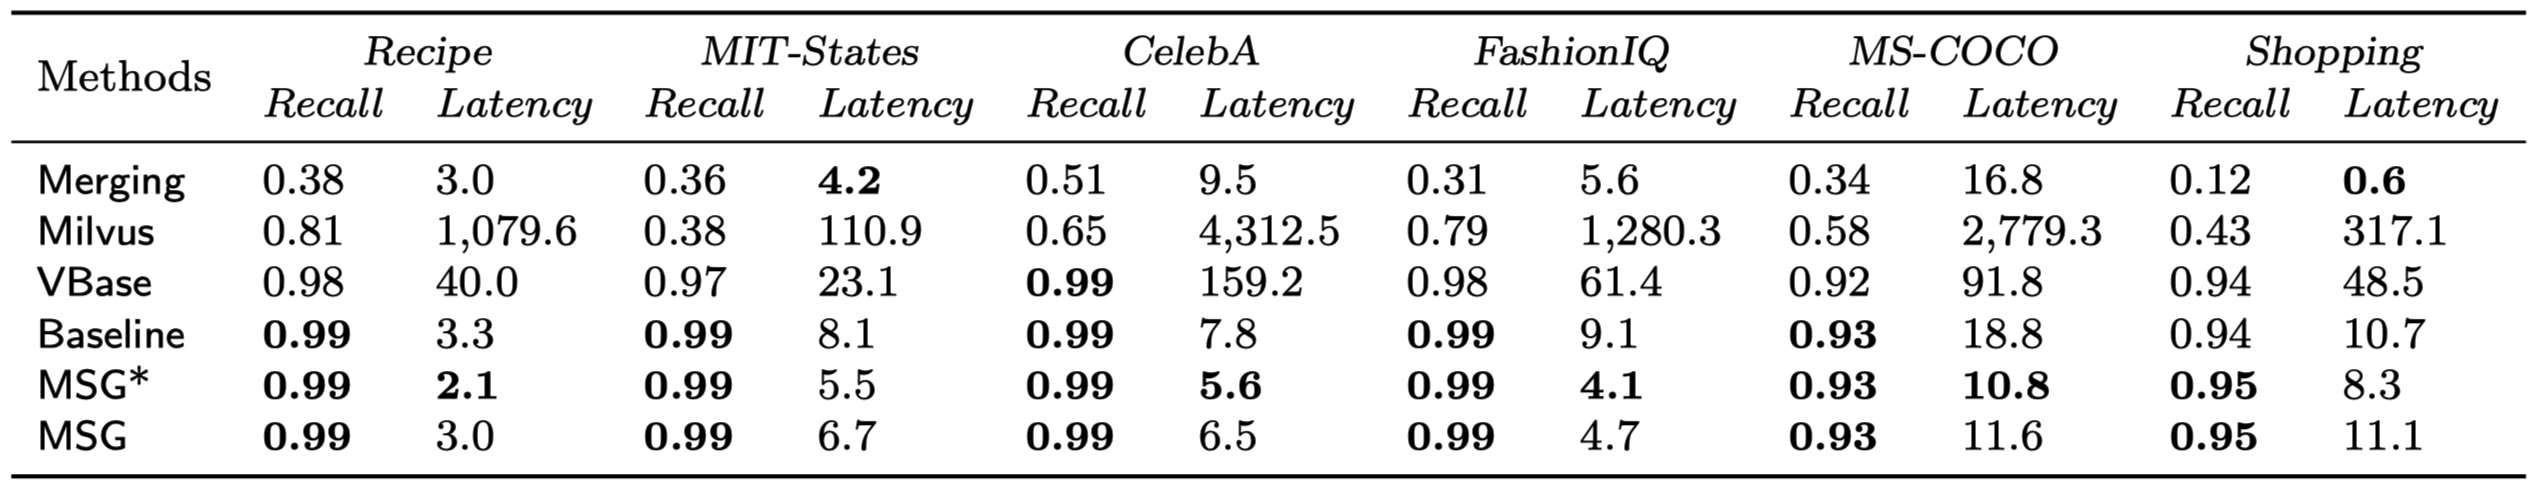
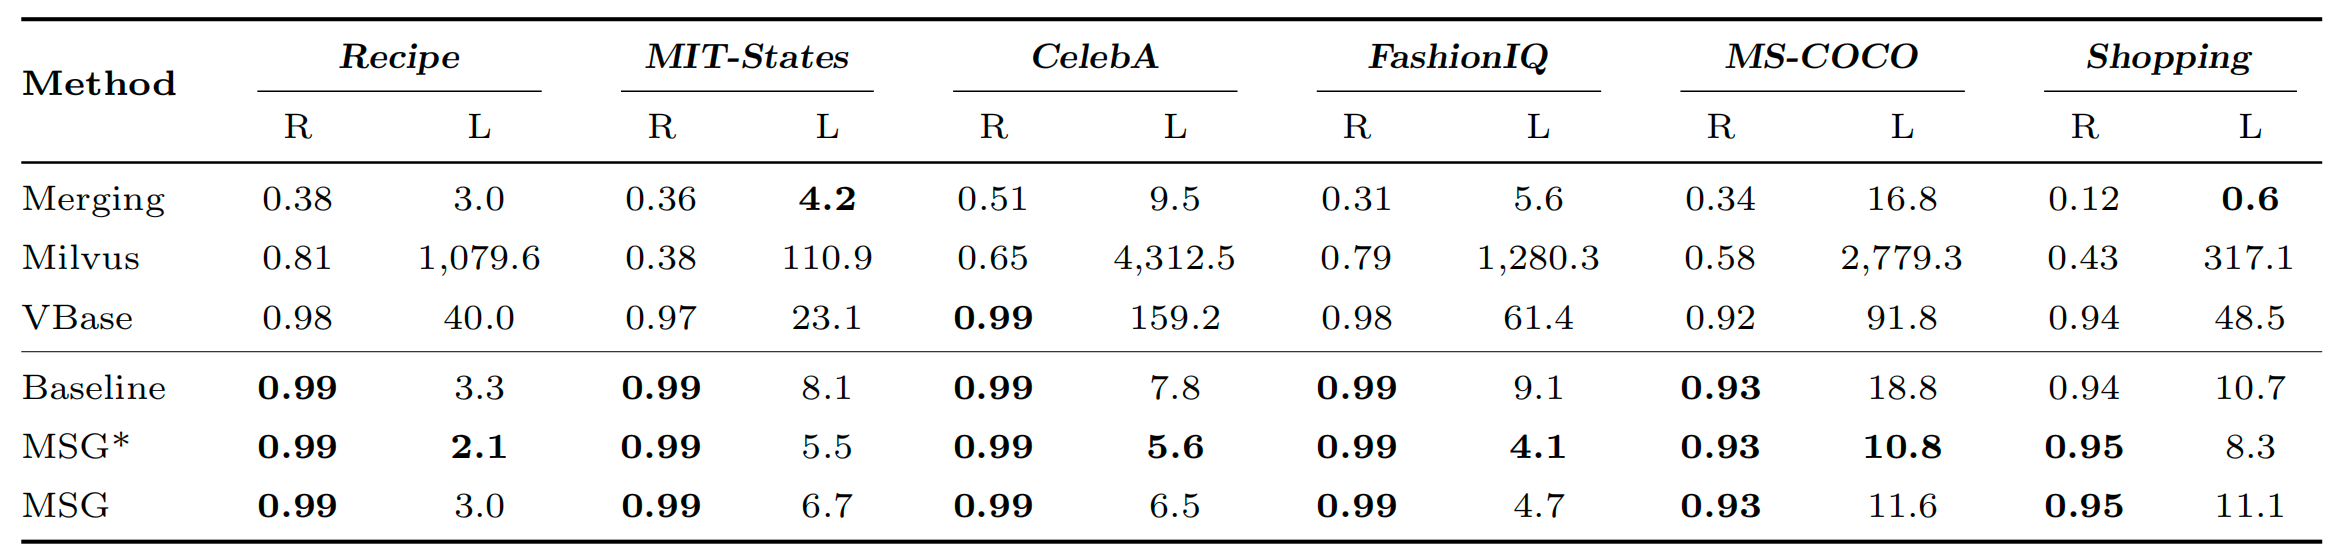
update exp doc

diff --git a/src/tensor_dist.h b/src/tensor_dist.h
@@ -119,7 +119,6 @@ namespace tensor_dist {
         return res;
     }
 
-
     float full_dist_build(const void *data1, const void *data2, int cur_combi_code = 0) {
         float * d1 = (float *) data1;
         float * d2 = (float *) data2;

diff --git a/data/eigen_vector_matrix.py b/data/eigen_vector_matrix.py
@@ -26,7 +26,6 @@ def fast_read_ftensors(filename):
 
     return data.reshape(-1, total_d), dvec
 
-
 def to_ftensors(filename, data):
     print(f"Writing File - {filename}")
     with open(filename, 'wb') as fp:

diff --git a/README.md b/README.md
@@ -1,10 +1,10 @@
-# Source Code for "Empowering High-Dimensional Multi-Vector Search"
+# Source Code for "MSG: a unified multi-space graph index for efficient high-dimensional multi-vector search"
 
 ## 1. Introduction
 
 Multi-Vector Search (MVS) is designed to manage multi-modal or multi-view data, particularly in light of the rise of multi-modal large language models. In this context, an object or query comprises multiple vectors, and similarity between objects is determined by distances across multiple vector pairs. Existing Vector Search (VS) methods, such as HNSW, are limited to handling queries or objects with a single vector. Recent approaches to MVS, which rely on VS using multiple single-space indexes, often face challenges in efficiency and accuracy, largely due to the inherent constraints of single-space indexes.
 
-In our paper, *Empowering High-Dimensional Multi-Vector Search*, we propose a novel Multi-Space Graph index, termed MSG, specifically designed to address the MVS problem.
+In our paper, *MSG: a unified multi-space graph index for efficient high-dimensional multi-vector search*, we propose a novel Multi-Space Graph index, termed MSG, specifically designed to address the MVS problem.
 
 This repository provides the source code, datasets, and additional implementation details used in the experiments.
 
@@ -82,7 +82,7 @@ cd ./script
 
 ## 6. Selected Results
 
-Search performance of multi-vector queries for different methods (Latency : ms). The bold values are the best.
+Search performance of multi-vector queries for different methods (Latency : ms). For each dataset, we report Recall@10 (R) and Latency in milliseconds (L). Best results are in bold.
 ![msg_overview](./figures/msg-performance.png)
 
 ## 7. Acknowledgments
